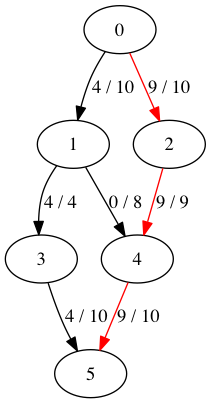
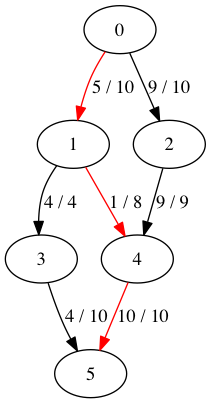
partially completed dinic

diff --git a/maxflow/dinic.py b/maxflow/dinic.py
@@ -37,7 +37,6 @@ class DinicImageSequence(ImageSequence):
             for j in range(len(graph[i])):
                 temp1, temp2 = graph[i][j]
                 self.graph[i].append((temp1, 0))
-
         # Stores maximum capcities
         self.graph_capacity = graph
 
@@ -69,6 +68,8 @@ class DinicImageSequence(ImageSequence):
                     self.level_graph[i].append((j, c))
 
     def next_image(self):
+
+        print "graph weights",self.graph
         if self.status == 1:
             print 'in blocking flow'
             _next = self.blocking_flow.next_image()
@@ -88,8 +89,13 @@ class DinicImageSequence(ImageSequence):
                 print 'finding blocking flow'
                 self.blocking_flow = BlockingFlowImageSequence(self.level_graph, self.vertices, self.edges, self.dist, self.source, self.sink)
                 self.status = 1
+
+                image = self.blocking_flow.init_image()
+                self.block_flow_graph = self.blocking_flow.block_flow
+                print self.block_flow_graph
                 self.update_flow()
-                return self.blocking_flow.init_image()
+                print self.graph
+                return image
 
     def complete(self):
         return self.done
@@ -138,6 +144,10 @@ class DinicImageSequence(ImageSequence):
         """
         Update self.graph etc, after getting a blocking_flow
         """
+        for i in range(len(self.graph)):
+            for j in range(len(self.graph[i])):
+                if i < range(len(self.block_flow_graph)) and j < range(len(self.block_flow_graph[i])):
+                    self.graph[i][j] = (self.graph[i][j][0], self.graph[i][j][1] + self.block_flow_graph[i][j][1])
 
     def dinic_algo():
 

diff --git a/main.py b/main.py
@@ -5,9 +5,13 @@ from maxflow.graph import input_graph, display_graph
 from maxflow.block_flow import BlockingFlowImageSequence
 from gui.image_display import start_gui
 
+import pdb
+
 graph, v, e = input_graph()
 display_graph(graph)
 print graph
+
+pdb.set_trace()
 
 
 def dinic_test():
